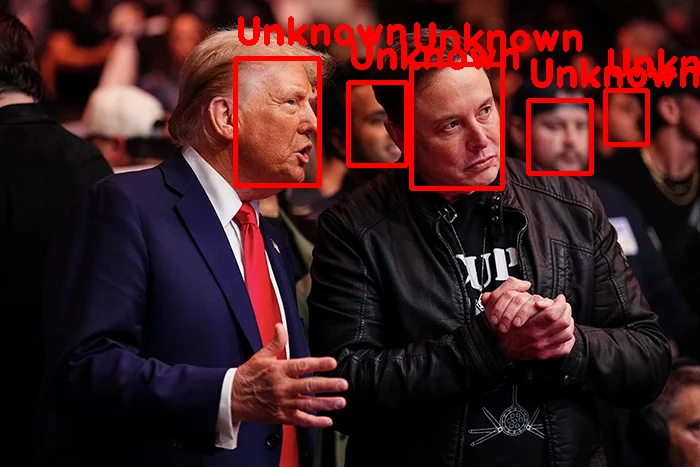
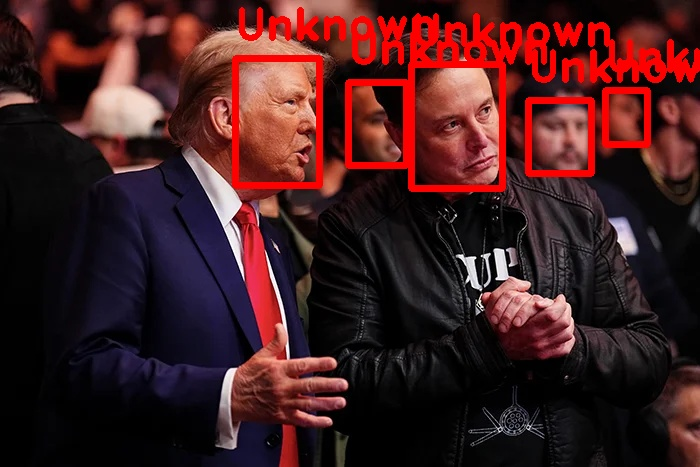
added a feature that will tell weather a face is detected in the photo or not.

Changed region(s): [[0.33, 0.0, 1.0, 0.4197]]

diff --git a/linear algebra real life projects/facial_recognition.py b/linear algebra real life projects/facial_recognition.py
@@ -113,8 +113,8 @@ def find_best_match(new_embedding):
     best_distance = 99.0                    # Higher = worse match
 
     # Compare the new face with EVERY known embedding
-    for person_name, known_list in known_embeddings.items():
-        for known_embedding in known_list:
+    for person_name, embedding_list in known_embeddings.items():
+        for known_embedding in embedding_list:
             # Calculate how similar two faces are (0 = identical, 1+ = different)
             distance = np.linalg.norm(new_embedding - known_embedding)
 
@@ -123,10 +123,10 @@ def find_best_match(new_embedding):
                 best_name = person_name
 
     # Only accept if similarity is good enough (threshold = 0.55)
-    if best_distance < 0.55:
-        return best_name, 1 - best_distance   # Return name + confidence (0-1)
+    if best_distance < 0.6:
+        return best_name, 1 - best_distance   # Return name + confidence (0-1) so best_distance is lower is better and it confidence is higher is better 1 - distance
     else:
-        return "Unknown", 0.0
+        return "Unknown", best_distance
 
 # ===================================================================
 # STEP 5: MAIN MENU — CHOOSE WHAT TO DO
@@ -159,28 +159,30 @@ while True:
             photo_path = os.path.join(test_folder, photo_name)
             print(f"\nAnalyzing: {photo_name}")
             image = cv2.imread(photo_path)
-            detected_faces = app.get(image)        # Find all faces in this photo
+            detected_faces = app.get(image) # Find all faces in this photo
+            print(f"  Found {len(detected_faces)} face(s) in {photo_name}")
+            if len(detected_faces) == 0:
+                print("  NO FACE DETECTED — check photo quality!")
+                # Still save image so you can see
+                cv2.putText(image, "NO FACE FOUND", (50, 50), cv2.FONT_HERSHEY_DUPLEX, 1.5, (0, 0, 255), 3)
+            else:
+                for face in detected_faces:
+                    name, confidence = find_best_match(face.embedding)
+                    detected_name = name.strip().lower()
+                    display_name = name
+                    print(f"  DETECTED → photo : {photo_name} : {display_name} (confidence: {confidence:.3f})")
+                    # Draw green box around face
+                    bbox = face.bbox.astype(int)
+                    is_known = any(detected_name == known.strip().lower() for known in known_embeddings.keys())
+                    if is_known:
+                        color = (0, 255, 0)  # Green for known faces
+                        label = f"{display_name} ({confidence:.2f})"
+                    else:
+                        color = (0, 0, 255)  # Red for unknown faces
+                        label = "Unknown"
 
-            for face in detected_faces:
-                name, confidence = find_best_match(face.embedding)
-                print(f"  DETECTED → {name.upper()} (confidence: {confidence:.3f})")
-                detected_name = name.lower()
-                # Draw green box around face
-                x1, y1, x2, y2 = face.bbox.astype(int)
-                if detected_name in [k.lower() for k in known_embeddings.keys()]:
-                  color = (0, 255, 0) # Green for known faces
-                  label = f"{name} {confidence:.2f}"
-                else:
-                  color = (0, 0, 255) # Red for unknown faces
-                  label = "Unknown"
-                thickness = 4
-
-                # Draw rectangle around faces
-                cv2.rectangle(image, (x1, y1), (x2, y2), color, thickness)
-
-                # Write name above the box
-                cv2.putText(image, label, (x1, y1-15),
-                           cv2.FONT_HERSHEY_DUPLEX, 1.2, color, 3)
+                    cv2.rectangle(image, (bbox[0], bbox[1]), (bbox[2], bbox[3]), color, thickness=6)
+                    cv2.putText(image, label, (bbox[0], bbox[1]-20), cv2.FONT_HERSHEY_DUPLEX, 1.4, color, 3)
 
             # Save result
             output_path = os.path.join(result_folder, "RESULT_" + photo_name)
